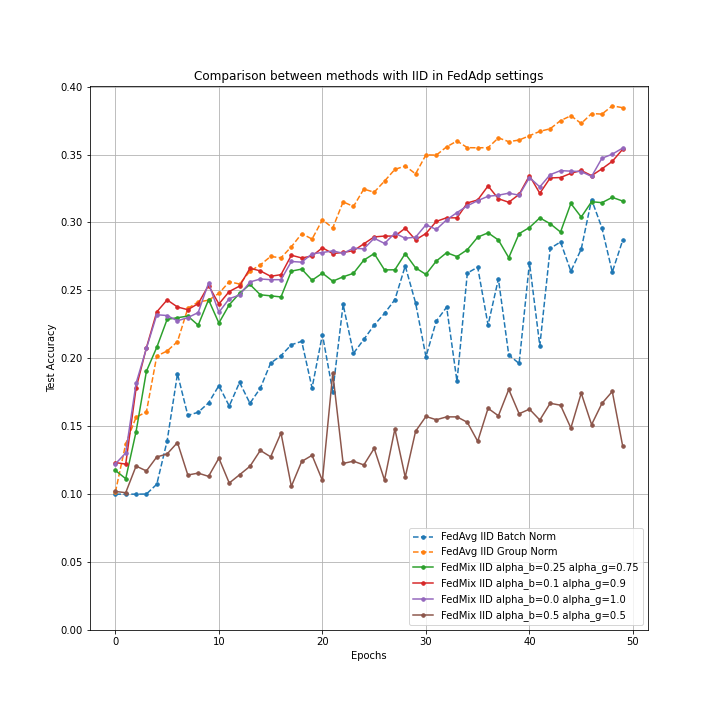
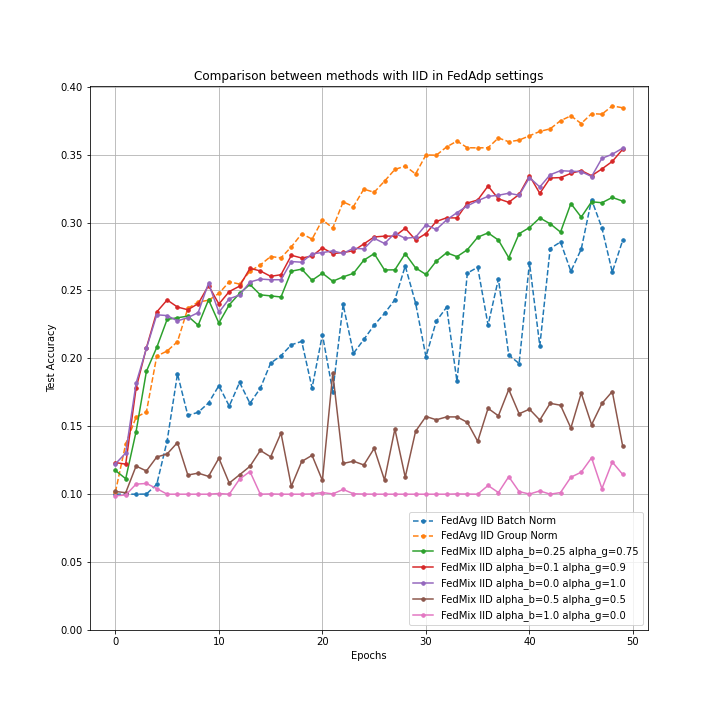
Last Commit... For now...

diff --git a/PrintGraphs.py b/PrintGraphs.py
@@ -13,6 +13,7 @@ dataMix025075 = pd.read_csv("Results\FedADP_results\FedMix_5_local_ep_iid_1_lr_0
 dataMix0109 = pd.read_csv("Results\FedADP_results\FedMix_5_local_ep_iid_1_lr_0.01_mom_0.5_epochs_50_alphaB_0.1_alphaG_0.9.csv")
 dataMix0010 = pd.read_csv("Results\FedADP_results\FedMix_5_local_ep_iid_1_lr_0.01_mom_0.5_epochs_50_alphaB_0.0_alphaG_1.0.csv")
 dataMix0505 = pd.read_csv("Results\FedADP_results\FedMix_5_local_ep_iid_1_lr_0.01_mom_0.5_epochs_50_alphaB_0.5_alphaG_0.5.csv")
+dataMix1000 = pd.read_csv("Results\FedADP_results\FedMix_5_local_ep_iid_1_unbalanced_0_lr_0.01_mom_0.5_epochs_50_alphaB_1.0_alphaG_0.0.csv")
 
 #---------- Plot the graphs ----------#
 plt.figure(figsize=(10,10))
@@ -22,6 +23,7 @@ plt.plot(dataMix025075["Epochs"],dataMix025075["Test accuracy"],marker = "o",mar
 plt.plot(dataMix0109["Epochs"],dataMix0109["Test accuracy"],marker = "o",markersize=3.5, label = 'FedMix IID alpha_b=0.1 alpha_g=0.9')
 plt.plot(dataMix0010["Epochs"],dataMix0010["Test accuracy"],marker = "o",markersize=3.5, label = 'FedMix IID alpha_b=0.0 alpha_g=1.0')
 plt.plot(dataMix0505["Epochs"],dataMix0505["Test accuracy"],marker = "o",markersize=3.5, label = 'FedMix IID alpha_b=0.5 alpha_g=0.5')
+plt.plot(dataMix1000["Epochs"],dataMix1000["Test accuracy"],marker = "o",markersize=3.5, label = 'FedMix IID alpha_b=1.0 alpha_g=0.0')
 plt.ylim(bottom = 0)
 plt.title("Comparison between methods with IID in FedAdp settings")
 plt.xlabel("Epochs")
@@ -40,6 +42,7 @@ dataMix025075 = pd.read_csv("Results\FedADP_results\FedMix_5_local_ep_iid_0_lr_0
 dataMix0109 = pd.read_csv("Results\FedADP_results\FedMix_5_local_ep_iid_0_lr_0.01_mom_0.5_epochs_50_alphaB_0.1_alphaG_0.9.csv")
 dataMix0010 = pd.read_csv("Results\FedADP_results\FedMix_5_local_ep_iid_0_lr_0.01_mom_0.5_epochs_50_alphaB_0.0_alphaG_1.0.csv")
 dataMix0505 = pd.read_csv("Results\FedADP_results\FedMix_5_local_ep_iid_0_lr_0.01_mom_0.5_epochs_50_alphaB_0.5_alphaG_0.5.csv")
+dataMix1000 = pd.read_csv("Results\FedADP_results\FedMix_5_local_ep_iid_0_unbalanced_0_lr_0.01_mom_0.5_epochs_50_alphaB_1.0_alphaG_0.0.csv")
 
 #---------- Plot the graphs ----------#
 plt.figure(figsize=(10,10))
@@ -48,7 +51,8 @@ plt.plot(dataAvgGN["Epochs"],dataAvgGN["Test accuracy"],marker = "o",markersize=
 plt.plot(dataMix025075["Epochs"],dataMix025075["Test accuracy"],marker = "o",markersize=3.5, label = 'FedMix IID alpha_b=0.25 alpha_g=0.75')
 plt.plot(dataMix0109["Epochs"],dataMix0109["Test accuracy"],marker = "o",markersize=3.5, label = 'FedMix NonIID alpha_b=0.1 alpha_g=0.9')
 plt.plot(dataMix0010["Epochs"],dataMix0010["Test accuracy"],marker = "o",markersize=3.5, label = 'FedMix NonIID alpha_b=0.0 alpha_g=1.0')
-plt.plot(dataMix0505["Epochs"],dataMix0505["Test accuracy"],marker = "o",markersize=3.5, label = 'FedMix IID alpha_b=0.5 alpha_g=0.5')
+plt.plot(dataMix0505["Epochs"],dataMix0505["Test accuracy"],marker = "o",markersize=3.5, label = 'FedMix NonIID alpha_b=0.5 alpha_g=0.5')
+plt.plot(dataMix1000["Epochs"],dataMix1000["Test accuracy"],marker = "o",markersize=3.5, label = 'FedMix NonIID alpha_b=1.0 alpha_g=0.0')
 plt.ylim(bottom = 0)
 plt.title("Comparison between methods with NonIID in FedAdp settings")
 plt.xlabel("Epochs")
@@ -275,7 +279,7 @@ dataAvgBN = pd.read_csv(r'Results\FedADP_unbalanced_results\FedAVG_5_local_ep_No
 dataAvgGN = pd.read_csv(r'Results\FedADP_unbalanced_results\FedAVG_5_local_ep_Norm_Group Norm_iid_0_unbalanced_1_lr_0.01_mom_0.5_epochs_50.csv')
 dataMix025075 = pd.read_csv(r"Results\FedADP_unbalanced_results\FedMix_5_local_ep_iid_0_unbalanced_1_lr_0.01_mom_0.5_epochs_50_alphaB_0.25_alphaG_0.75.csv")
 dataMix0109 = pd.read_csv(r"Results\FedADP_unbalanced_results\FedMix_5_local_ep_iid_0_unbalanced_1_lr_0.01_mom_0.5_epochs_50_alphaB_0.1_alphaG_0.9.csv")
-#dataMix0010 = pd.read_csv("FedADP_results\FedMix_5_local_ep_iid_1_lr_0.01_mom_0.5_epochs_50_alphaB_0.0_alphaG_1.0.csv")
+dataMix0010 = pd.read_csv(r"Results\FedADP_unbalanced_results\FedMix_5_local_ep_iid 0_unbalanced 1_lr 0.01_mom 0.5_epochs 50_alphaB 0.5_alphaG 0.5.csv")
 dataMix0505 = pd.read_csv(r"Results\FedADP_unbalanced_results\FedMix_5_local_ep_iid 0_unbalanced 1_lr 0.01_mom 0.5_epochs 50_alphaB 0.5_alphaG 0.5.csv")
 dataMix1000 = pd.read_csv(r"Results\FedADP_unbalanced_results\FedMix_5_local_ep_iid 0_unbalanced 1_lr 0.01_mom 0.5_epochs 50_alphaB 1.0_alphaG 0.0.csv")
 
@@ -285,7 +289,7 @@ plt.plot(dataAvgBN["Epochs"],dataAvgBN["Test accuracy"],marker = "o",markersize=
 plt.plot(dataAvgGN["Epochs"],dataAvgGN["Test accuracy"],marker = "o",markersize=3.5,linestyle = "--", label = 'FedAvg NonIID Unbalanced Group Norm')
 plt.plot(dataMix025075["Epochs"],dataMix025075["Test accuracy"],marker = "o",markersize=3.5, label = 'FedMix Non-IID unbalanced alpha_b=0.25 alpha_g=0.75')
 plt.plot(dataMix0109["Epochs"],dataMix0109["Test accuracy"],marker = "o",markersize=3.5, label = 'FedMix Non-IID unbalanced alpha_b=0.1 alpha_g=0.9')
-#plt.plot(dataMix0010["Epochs"],dataMix0010["Test accuracy"],marker = "o",markersize=3.5, label = 'FedMix IID alpha_b=0.0 alpha_g=1.0')
+plt.plot(dataMix0010["Epochs"],dataMix0010["Test accuracy"],marker = "o",markersize=3.5, label = 'FedMix Non-IID unbalanced alpha_b=0.0 alpha_g=1.0')
 plt.plot(dataMix0505["Epochs"],dataMix0505["Test accuracy"],marker = "o",markersize=3.5, label = 'FedMix Non-IID unbalanced alpha_b=0.5 alpha_g=0.5')
 plt.plot(dataMix1000["Epochs"],dataMix1000["Test accuracy"],marker = "o",markersize=3.5, label = 'FedMix Non-IID unbalanced alpha_b=1 alpha_g=0.0')
 plt.ylim(bottom = 0)
